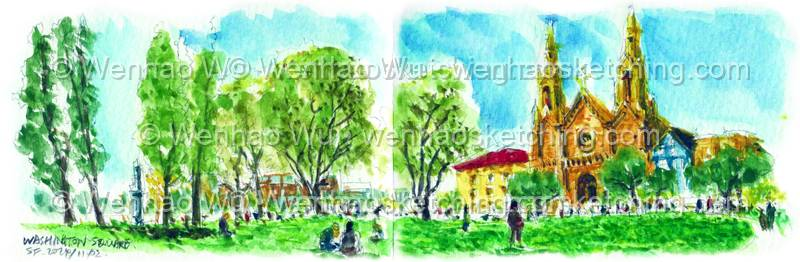
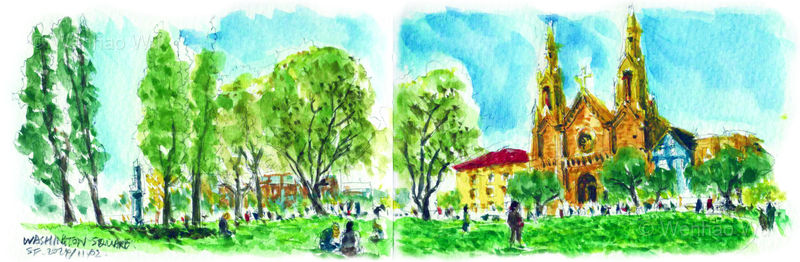
better preserve color balance for web image display

diff --git a/scripts/optimize_images.py b/scripts/optimize_images.py
@@ -12,8 +12,8 @@ import sys
 from PIL import Image, ImageDraw, ImageFont
 import argparse
 
-def add_watermark(image, watermark_text="© Wenhao Wu", opacity=0.3):
-    """Add a diagonal watermark to the image"""
+def add_watermark(image, watermark_text="© Wenhao Wu", opacity=0.25):
+    """Add horizontal watermarks to the image"""
     # Create a copy to work with
     watermarked = image.copy()
 
@@ -23,7 +23,7 @@ def add_watermark(image, watermark_text="© Wenhao Wu", opacity=0.3):
 
     # Try to use a system font
     try:
-        font_size = max(30, min(watermarked.width, watermarked.height) // 15)
+        font_size = max(20, min(watermarked.width, watermarked.height) // 20)
         font = ImageFont.truetype("/System/Library/Fonts/Arial.ttf", font_size)
     except:
         font = ImageFont.load_default()
@@ -33,36 +33,38 @@ def add_watermark(image, watermark_text="© Wenhao Wu", opacity=0.3):
     text_width = bbox[2] - bbox[0]
     text_height = bbox[3] - bbox[1]
 
-    # Position watermark in center
-    x = (watermarked.width - text_width) // 2
-    y = (watermarked.height - text_height) // 2
-
     # Create watermark with opacity
     alpha = int(255 * opacity)
 
-    # Add multiple watermarks for better protection
+    # Add only 2 subtle horizontal watermarks
     positions = [
-        (x, y),  # Center
-        (50, 50),  # Top left
-        (watermarked.width - text_width - 50, watermarked.height - text_height - 50),  # Bottom right
-        (50, watermarked.height - text_height - 50),  # Bottom left
-        (watermarked.width - text_width - 50, 50),  # Top right
+        (30, 30),  # Top left
+        (watermarked.width - text_width - 30, watermarked.height - text_height - 30),  # Bottom right
     ]
 
     for pos_x, pos_y in positions:
-        # White text with shadow
-        draw.text((pos_x + 2, pos_y + 2), watermark_text, font=font, fill=(0, 0, 0, alpha//2))
+        # Add subtle shadow for better readability
+        draw.text((pos_x + 1, pos_y + 1), watermark_text, font=font, fill=(0, 0, 0, alpha//3))
+        # Main watermark text
         draw.text((pos_x, pos_y), watermark_text, font=font, fill=(255, 255, 255, alpha))
 
     # Composite the overlay onto the original image
     watermarked = Image.alpha_composite(watermarked.convert('RGBA'), overlay)
     return watermarked.convert('RGB')
 
-def optimize_image(input_path, output_path, max_width=800, quality=75):
-    """Optimize image for web display"""
+def optimize_image(input_path, output_path, max_width=800, quality=80):
+    """Optimize image for web display with better color preservation"""
     with Image.open(input_path) as img:
-        # Convert to RGB if necessary
-        if img.mode in ('RGBA', 'LA', 'P'):
+        # Preserve original color profile if possible
+        original_mode = img.mode
+
+        # Convert to RGB if necessary, but preserve color characteristics
+        if img.mode in ('RGBA', 'LA'):
+            # For images with transparency, composite on white background
+            background = Image.new('RGB', img.size, (255, 255, 255))
+            background.paste(img, mask=img.split()[-1] if img.mode == 'RGBA' else None)
+            img = background
+        elif img.mode == 'P':
             img = img.convert('RGB')
 
         # Calculate new dimensions
@@ -70,13 +72,15 @@ def optimize_image(input_path, output_path, max_width=800, quality=75):
         if width > max_width:
             new_width = max_width
             new_height = int((height * max_width) / width)
+            # Use high-quality resampling to preserve details and colors
             img = img.resize((new_width, new_height), Image.Resampling.LANCZOS)
 
-        # Add watermark
-        img = add_watermark(img, "© Wenhao Wu • wenhaosketching.com", opacity=0.4)
+        # Add subtle watermark
+        img = add_watermark(img, "© Wenhao Wu", opacity=0.25)
 
-        # Save with optimization
-        img.save(output_path, 'JPEG', quality=quality, optimize=True)
+        # Save with better quality settings for color preservation
+        img.save(output_path, 'JPEG', quality=quality, optimize=True,
+                subsampling=0, progressive=True)
 
         # Get file sizes
         original_size = os.path.getsize(input_path)
@@ -89,7 +93,7 @@ def main():
     parser.add_argument('input_dir', help='Input directory containing images')
     parser.add_argument('output_dir', help='Output directory for optimized images')
     parser.add_argument('--max-width', type=int, default=800, help='Maximum width in pixels (default: 800)')
-    parser.add_argument('--quality', type=int, default=75, help='JPEG quality 1-100 (default: 75)')
+    parser.add_argument('--quality', type=int, default=80, help='JPEG quality 1-100 (default: 80)')
 
     args = parser.parse_args()
 
